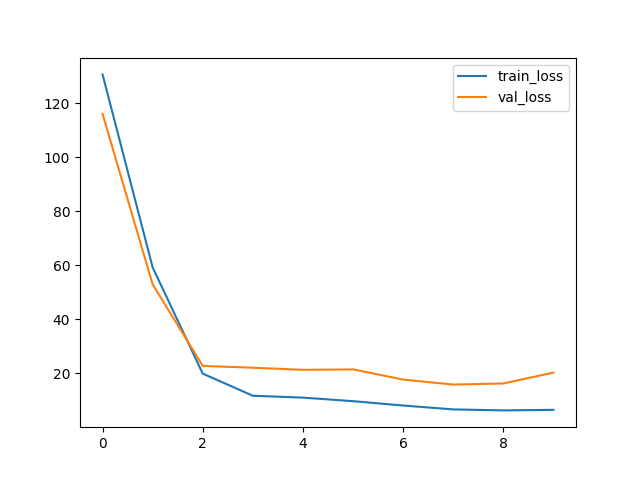
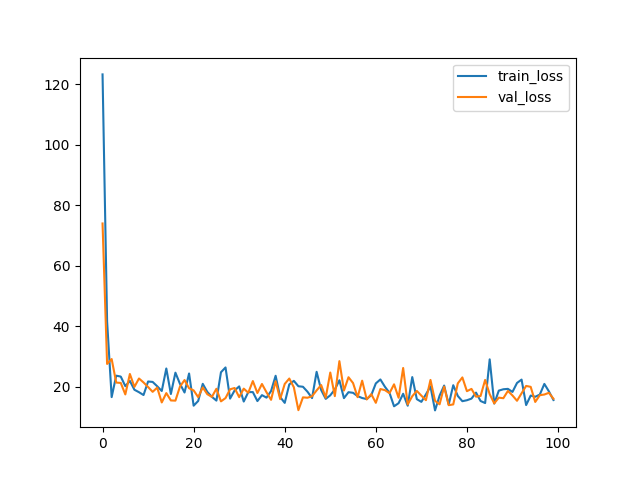
Big train

diff --git a/main.py b/main.py
@@ -99,7 +99,7 @@ class Model(nn.Module):
 
         self.output_size = 1
 
-        self.nb_epoch = 100
+        self.nb_epoch = 1000
         self.learning_rate = 0.0001
         self.batch_size = 32
 
@@ -240,6 +240,10 @@ class Model(nn.Module):
                         h /= metadata[i]["scale"]
                         s_x = int(x // (IMAGE_SIZE / S))
                         s_y = int(y // (IMAGE_SIZE / S))
+                        if s_x >= 30:
+                            s_x = 29
+                        if s_y >= 30:
+                            s_y = 29
                         b = None
                         for all_b in range(B):
                             if w > y_processed[i][s_x][s_y][all_b][2]:
@@ -269,7 +273,7 @@ class Model(nn.Module):
 
         print("Training...")
         for epoch in range(self.nb_epoch):
-            x_batch = random.sample(x, self.batch_size)
+            x_batch = random.choices(x, k=self.batch_size)
             x_batch, y_batch = self._preprocessor(x_batch, y)
             y_pred = self.model(x_batch)
 
@@ -280,7 +284,7 @@ class Model(nn.Module):
 
             if epoch % 10 == 0:
                 with torch.no_grad():
-                    x_val_batch = random.sample(x_val, self.batch_size)
+                    x_val_batch = random.choices(x_val, k=self.batch_size)
                     x_val_batch, y_val_batch = self._preprocessor(x_val_batch, y)
                     y_val_pred = self.model(x_val_batch)
                     val_loss = self.loss_function(y_val_pred, y_val_batch)
